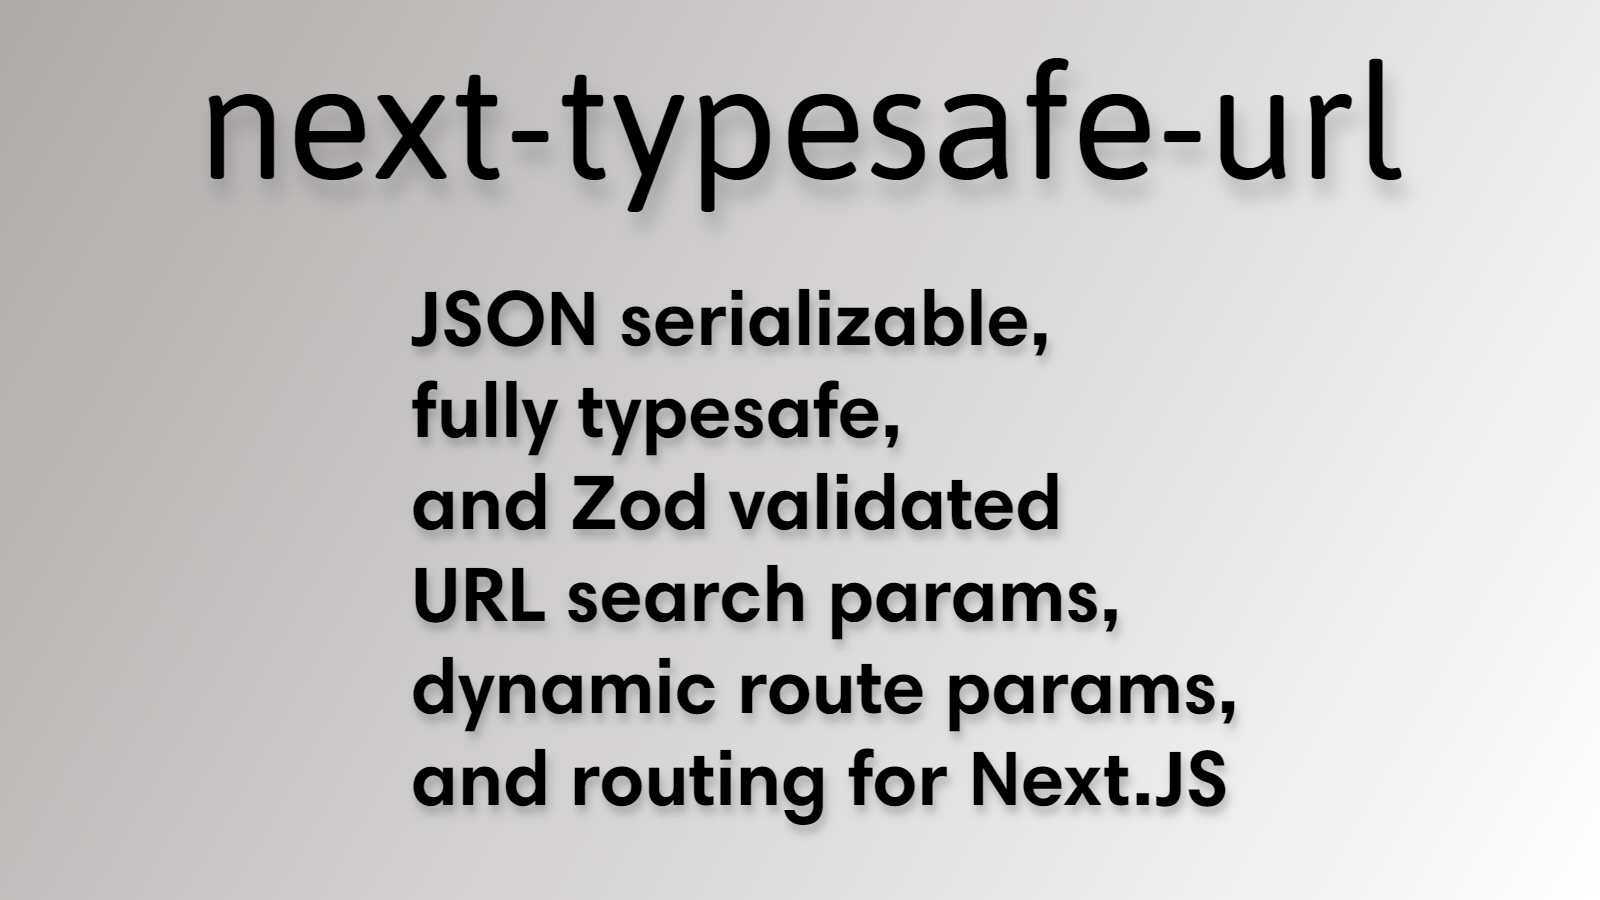
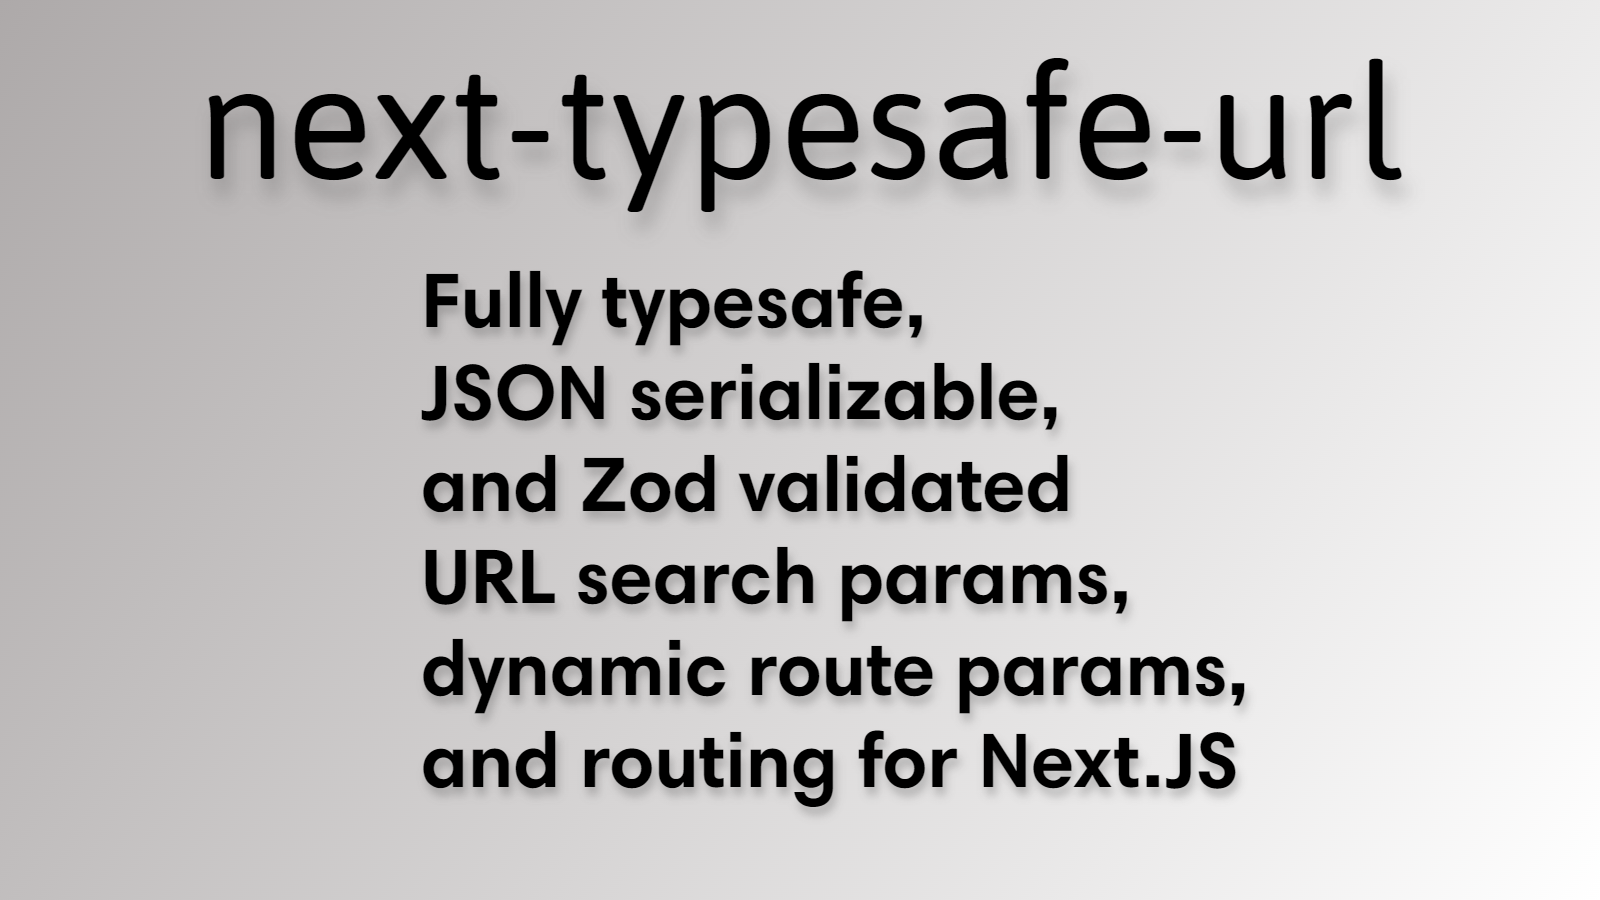
rearrange tagline order

Changed region(s): [[0.25, 0.28, 0.7812, 0.9333]]

diff --git a/www/docs/src/consts.ts b/www/docs/src/consts.ts
@@ -10,7 +10,7 @@ export const OPEN_GRAPH = {
     src: "https://raw.githubusercontent.com/ethanniser/next-typesafe-url/main/www/docs/public/banner.png",
     alt:
       "next-typesafe-url: " +
-      "JSON serializable, fully typesafe, and zod validated URL search params, dynamic route params, and routing for NextJS.",
+      "Fully typesafe, JSON serializable, and zod validated URL search params, dynamic route params, and routing for NextJS.",
   },
   twitter: "ethanniser",
 };

diff --git a/README.md b/README.md
@@ -4,7 +4,7 @@ _Now with full support for app directory and server components!_
 
 ![next-typesafe-url-example](https://github.com/ethanniser/next-typesafe-url/assets/100045248/682e2a01-7e7f-4e44-adb5-6512b22eaadf)
 
-JSON serializable, fully typesafe, and [zod](https://www.npmjs.com/package/zod) validated URL search params, dynamic route params, and routing for NextJS.
+Fully typesafe, JSON serializable, and [zod](https://www.npmjs.com/package/zod) validated URL search params, dynamic route params, and routing for NextJS.
 
 **Big shoutout to [tanstack/router](https://github.com/tanstack/router) and [yesmeck/remix-routes](https://github.com/yesmeck/remix-routes) for inspiration and ideas.**
 

diff --git a/packages/next-typesafe-url/README.md b/packages/next-typesafe-url/README.md
@@ -2,7 +2,7 @@
 
 _Now with full support for app directory and server components!_
 
-JSON serializable, fully typesafe, and [zod](https://www.npmjs.com/package/zod) validated URL search params, dynamic route params, and routing for NextJS.
+Fully typesafe, JSON serializable, and [zod](https://www.npmjs.com/package/zod) validated URL search params, dynamic route params, and routing for NextJS.
 
 **Big shoutout to [tanstack/router](https://github.com/tanstack/router) and [yesmeck/remix-routes](https://github.com/yesmeck/remix-routes) for inspiration and ideas.**
 
